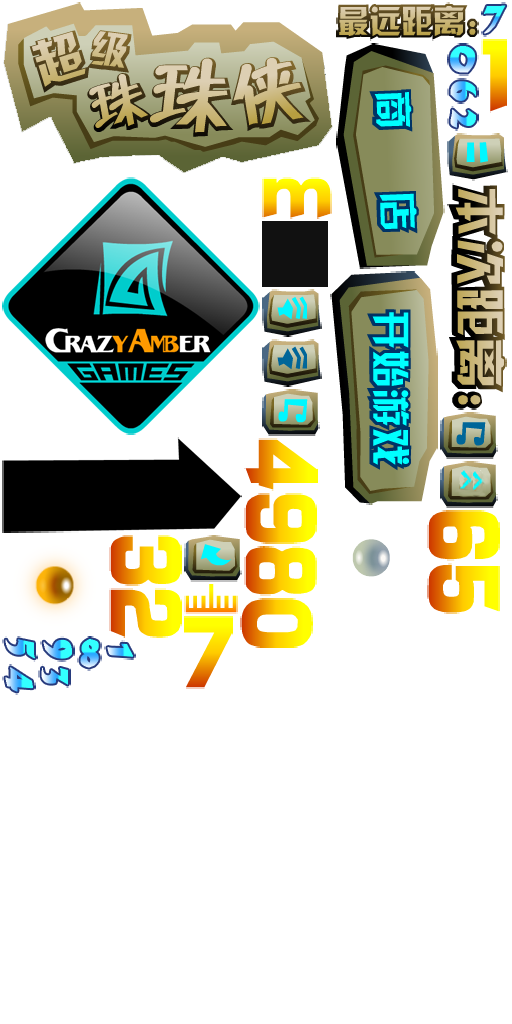
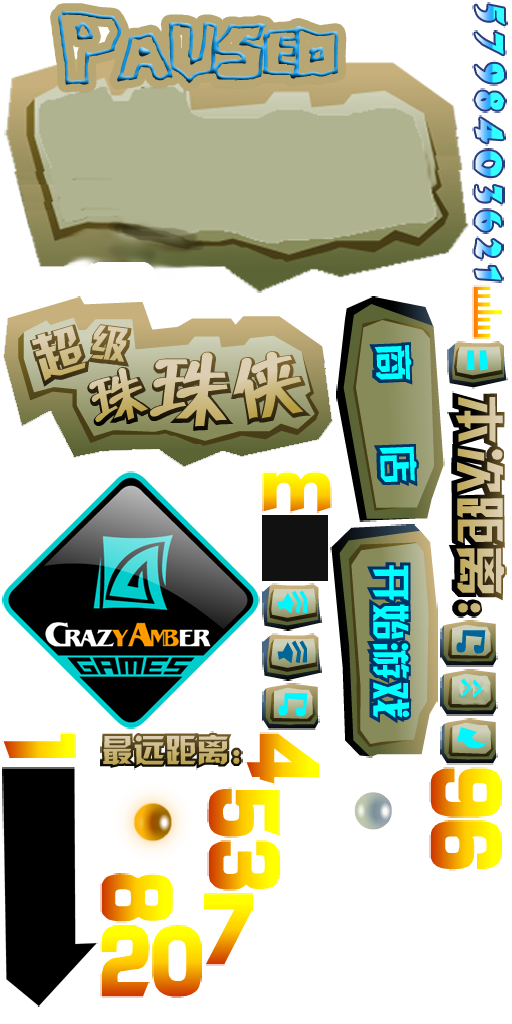
prepare ready

diff --git a/Classes/TSStagePlayLayerGamePrepare.h b/Classes/TSStagePlayLayerGamePrepare.h
@@ -20,6 +20,9 @@ protected:
 	//Define_Sprite_Getter(TSSpriteButton, button_shop);
 	Define_Sprite_Getter(TSSpriteButton, button_music);
 	Define_Sprite_Getter(TSSpriteButton, button_sound);
+	Define_Sprite_Getter(TSSpriteCommon, prepare_player);
+	Define_Sprite_Getter(TSSpriteCommon, prepare_shark);
+	Define_Sprite_Getter(TSSpriteCommon, prepare_dolphin);
 
 	void _NullGetters()
 	{
@@ -32,6 +35,9 @@ protected:
 		//Init_Sprite_Getter_Var(button_shop);
 		Init_Sprite_Getter_Var(button_music);
 		Init_Sprite_Getter_Var(button_sound);
+		Init_Sprite_Getter_Var(prepare_player);
+		Init_Sprite_Getter_Var(prepare_shark);
+		Init_Sprite_Getter_Var(prepare_dolphin);
 	}
 	void _InitGetters()
 	{
@@ -43,6 +49,9 @@ protected:
 		//Init_Sprite_Getter(TSSpriteButton, button_shop);
 		Init_Sprite_Getter(TSSpriteButton, button_music);
 		Init_Sprite_Getter(TSSpriteButton, button_sound);
+		Init_Sprite_Getter(TSSpriteCommon, prepare_player);
+		Init_Sprite_Getter(TSSpriteCommon, prepare_shark);
+		Init_Sprite_Getter(TSSpriteCommon, prepare_dolphin);
 	}
 
 	void _findNumberSprites(const char* prefix, CASprite** ppsprs, int size);

diff --git a/Classes/TSStagePlayLayerGamePlayPause.h b/Classes/TSStagePlayLayerGamePlayPause.h
@@ -16,6 +16,7 @@ class TSStagePlayLayerGamePlayPause :
 protected:
 	Define_Sprite_Getter(TSSpriteCommon, label_pause_title);
 	Define_Sprite_Getter(TSSpriteCommon, panel_black);
+	Define_Sprite_Getter(TSSpriteCommon, panel_frame);
 	Define_Sprite_Getter(TSSpriteButton, button_restart);
 	Define_Sprite_Getter(TSSpriteButton, button_resume);
 	Define_Sprite_Getter(TSSpriteButton, button_music);
@@ -25,6 +26,7 @@ protected:
 	{
 		Init_Sprite_Getter_Var(label_pause_title);
 		Init_Sprite_Getter_Var(panel_black);
+		Init_Sprite_Getter_Var(panel_frame);
 		Init_Sprite_Getter_Var(button_restart);
 		Init_Sprite_Getter_Var(button_resume);
 		Init_Sprite_Getter_Var(button_music);
@@ -35,6 +37,7 @@ protected:
 	{
 		//Init_Sprite_Getter(TSSpriteCommon, label_pause_title);
 		Init_Sprite_Getter(TSSpriteCommon, panel_black);
+		Init_Sprite_Getter(TSSpriteCommon, panel_frame);
 		Init_Sprite_Getter(TSSpriteButton, button_restart);
 		Init_Sprite_Getter(TSSpriteButton, button_resume);
 		Init_Sprite_Getter(TSSpriteButton, button_music);

diff --git a/Classes/TSSpritePlayer.cpp b/Classes/TSSpritePlayer.cpp
@@ -310,6 +310,25 @@ void TSSpritePlayer::_on_dead(EStateFlag flag)
 	}
 }
 
+void TSSpritePlayer::_on_fadeout(EStateFlag flag)
+{
+	switch(flag)
+	{
+	case SF_Begin:
+		{
+			this->switchPose(PS_Fadeout);
+		}
+		break;
+	case SF_Update:
+		{
+		}
+		break;
+	default:
+		_Assert(false);
+		break;
+	}
+}
+
 void TSSpritePlayer::onStateChanged(const string& olds, const string& news)
 {
 	_HandleState(news, prepare, SF_Begin);
@@ -318,12 +337,15 @@ void TSSpritePlayer::onStateChanged(const string& olds, const string& news)
 	_HandleState(news, waitriding, SF_Begin);
 	_HandleState(news, riding, SF_Begin);
 	_HandleState(news, dead, SF_Begin);
+	_HandleState(news, fadeout, SF_Begin);
 }
 
 void TSSpritePlayer::_adjustPosition(CCPoint& pos)
 {
 	//_Trace("player[%s] gx=%.0f,gy=%.0f cx=%.2f cy=%.0f", _state.c_str(),
 	//	_gameKey.x, _gameKey.y, _combinedKey.x, _combinedKey.y);
+	if (this->getCurrentPose() && this->getCurrentPose()->name() == "fadeout")
+		return;
 
 	if (pos.y < _rectYard.origin.y)
 	{

diff --git a/Classes/TSSpritePlayer.h b/Classes/TSSpritePlayer.h
@@ -29,6 +29,7 @@ protected:
 	void _on_waitriding(EStateFlag flag);
 	void _on_riding(EStateFlag flag);
 	void _on_dead(EStateFlag flag);
+	void _on_fadeout(EStateFlag flag);
 public:
 	TSSpritePlayer(CAStageLayer* palyer, const char* name);
 	virtual ~TSSpritePlayer(void);
@@ -43,6 +44,7 @@ public:
 #	define PS_WaitRiding	"waitriding"
 #	define PS_Riding		"riding"
 #	define PS_Dead			"dead"
+#	define PS_Fadeout		"fadeout"
 
 	void onStateChanged(const string& olds, const string& news);
 

diff --git a/Classes/TSStagePlayLayerGamePrepare.cpp b/Classes/TSStagePlayLayerGamePrepare.cpp
@@ -164,6 +164,9 @@ void TSStagePlayLayerGamePrepare::onStateBegin(CAState* from, void* param)
 			_info_dist_back(),
 			_label_dist_last(),
 			_label_dist_max(),
+			_prepare_player(),
+			_prepare_shark(),
+			_prepare_dolphin(),
 			null,
 		};
 		CASprite* psprsControls[] =

diff --git a/Classes/TSStagePlayLayerGamePlayPause.cpp b/Classes/TSStagePlayLayerGamePlayPause.cpp
@@ -129,6 +129,7 @@ void TSStagePlayLayerGamePlayPause::onStateBegin(CAState* from, void* param)
 		{
 			//_label_pause_title(),
 			_panel_black(),
+			_panel_frame(),
 			_button_restart(),
 			_button_resume(),
 			null,
